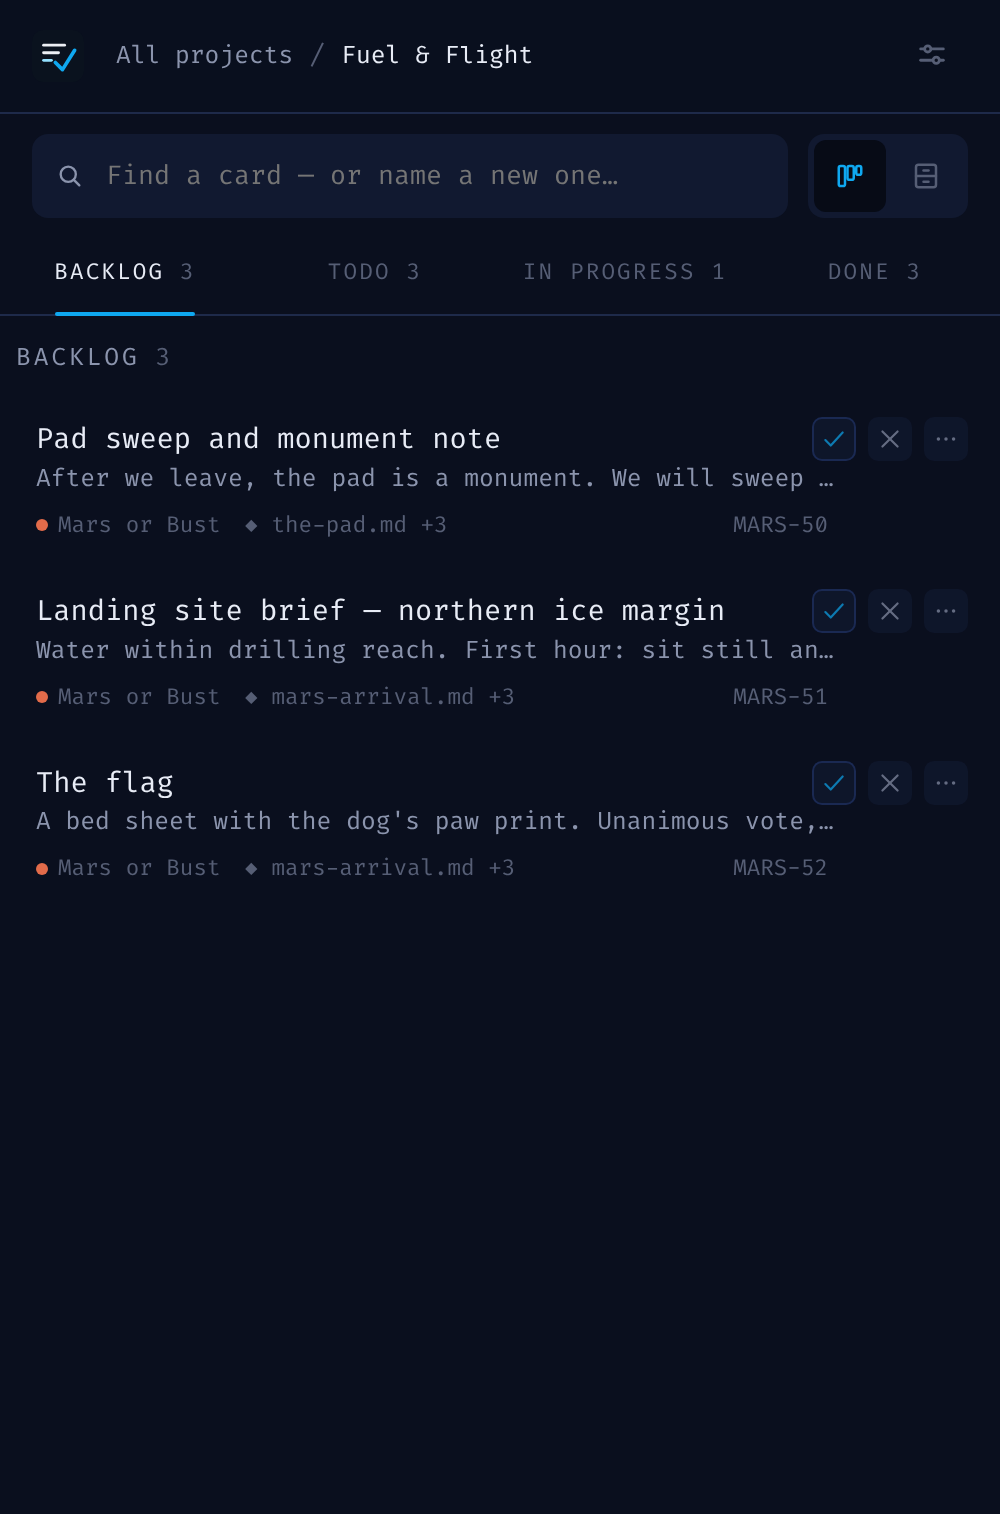
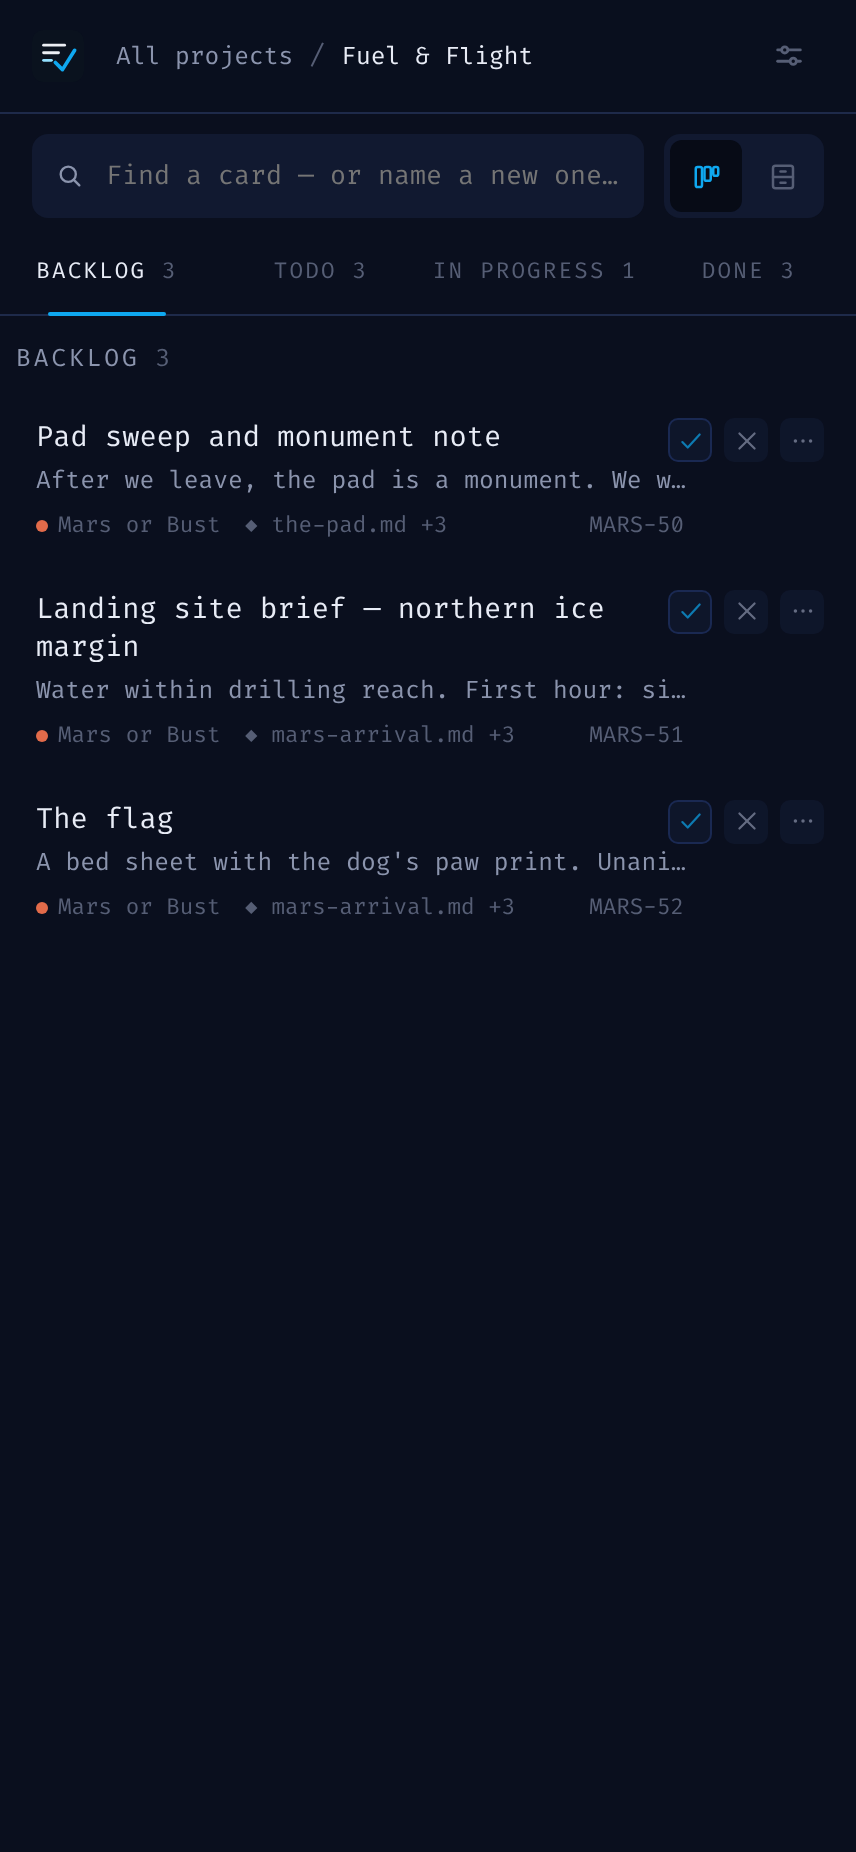
The phone ticker earns its phone: true-aspect remote captures, a smaller frame, steppers that clear their hint on mobile, and a copy button with a backdrop the code never slips under

diff --git a/src/styles/said.css b/src/styles/said.css
@@ -1030,6 +1030,31 @@
 }
 
 @media (width <= 760px) {
+  .said-scrolly-hint {
+    top: clamp(72px, 11svh, 100px);
+    font-size: 0.66rem;
+    letter-spacing: 0.22em;
+  }
+
+  .said-scrolly-step {
+    justify-content: flex-start;
+    gap: 14px;
+    padding: clamp(112px, 17svh, 150px) 20px 64px;
+  }
+
+  .said-scrolly-step h2 {
+    font-size: clamp(1.65rem, 7vw, 2.2rem);
+  }
+
+  .said-scrolly-step .said-note {
+    font-size: 0.92rem;
+    line-height: 1.6;
+  }
+
+  .said-scrolly-shot .said-shot img {
+    max-height: 34svh;
+  }
+
   .said-after-art {
     width: min(720px, 100%);
     margin: clamp(22px, 4vh, 40px) auto;
@@ -1066,7 +1091,7 @@
   }
 
   .said-phone {
-    width: min(300px, 82vw);
+    width: min(230px, 60vw);
     margin: clamp(26px, 4vh, 46px) auto 0;
     padding: 12px 12px 16px;
     border: 1px solid var(--said-line);

diff --git a/src/scripts/said-copy.js b/src/scripts/said-copy.js
@@ -3,20 +3,23 @@ const COPY_ICON =
 
 const STYLE = `
 .said-copy-wrap { position: relative; }
+.said-copy-wrap pre { padding-right: 60px; }
 .said-copy-btn {
   position: absolute;
-  top: 8px;
-  right: 8px;
+  top: 50%;
+  right: 10px;
+  transform: translateY(-50%);
   display: inline-flex;
   align-items: center;
-  gap: 6px;
-  padding: 5px 8px;
-  border: 1px solid rgb(148 225 255 / 25%);
-  border-radius: 7px;
-  background: rgb(6 11 20 / 55%);
+  justify-content: center;
+  padding: 7px 9px;
+  border: 1px solid rgb(148 225 255 / 30%);
+  border-radius: 8px;
+  background: rgb(6 11 20 / 88%);
+  backdrop-filter: blur(6px);
   color: #94e1ff;
   cursor: pointer;
-  opacity: 0.55;
+  opacity: 0.9;
   transition: opacity 140ms ease, filter 140ms ease;
 }
 .said-copy-wrap:hover .said-copy-btn { opacity: 1; }
